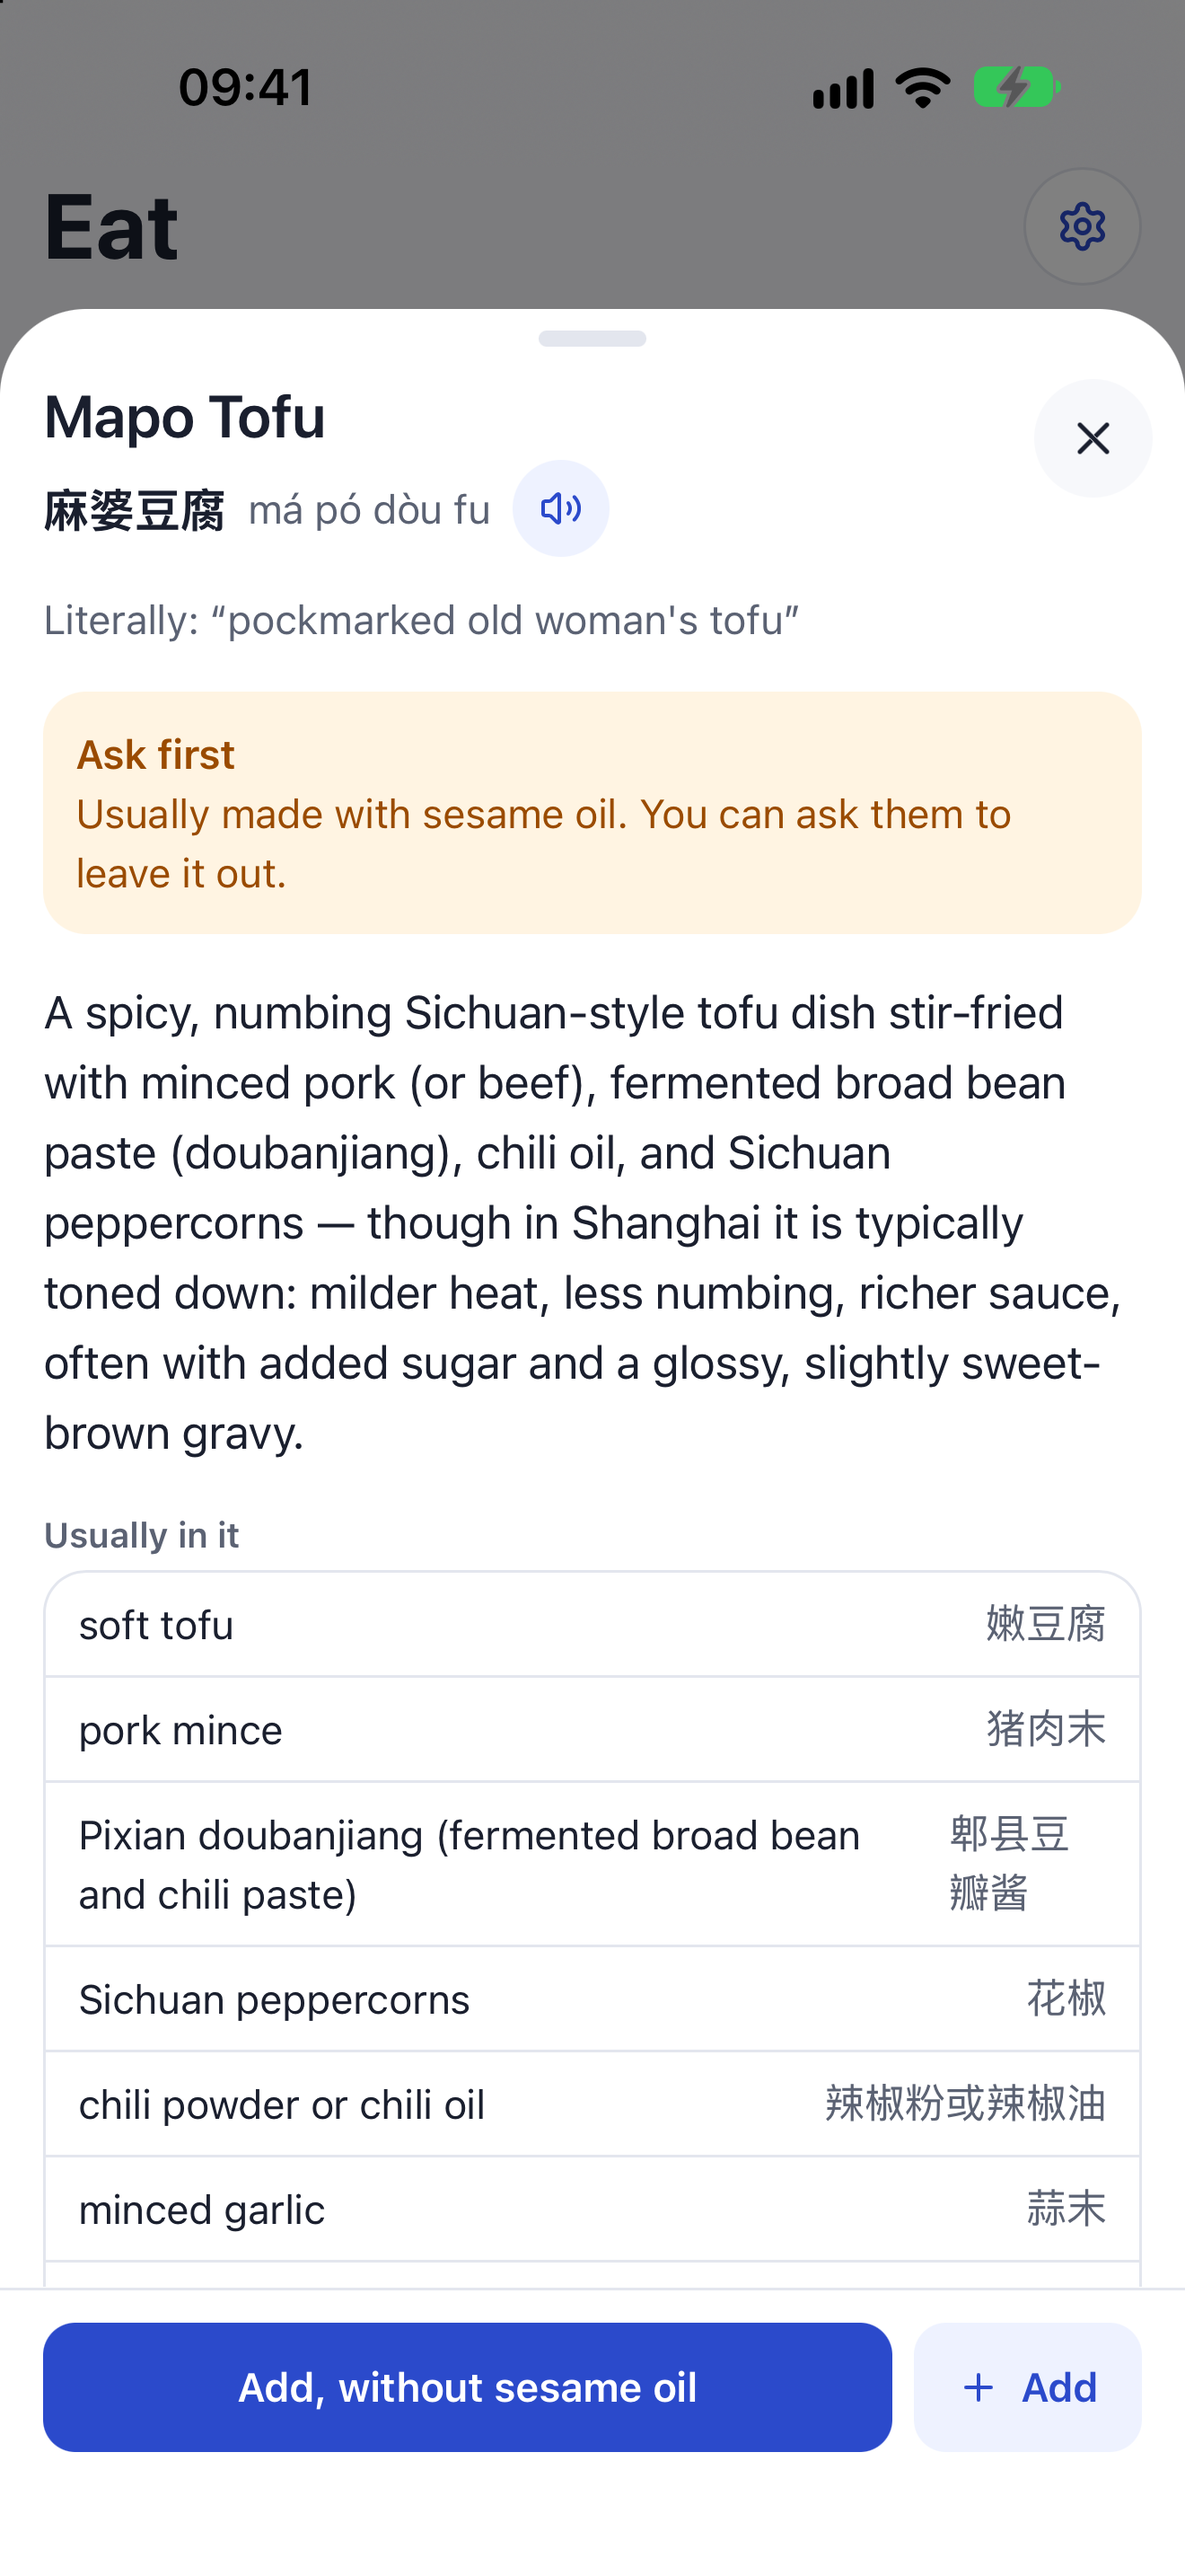
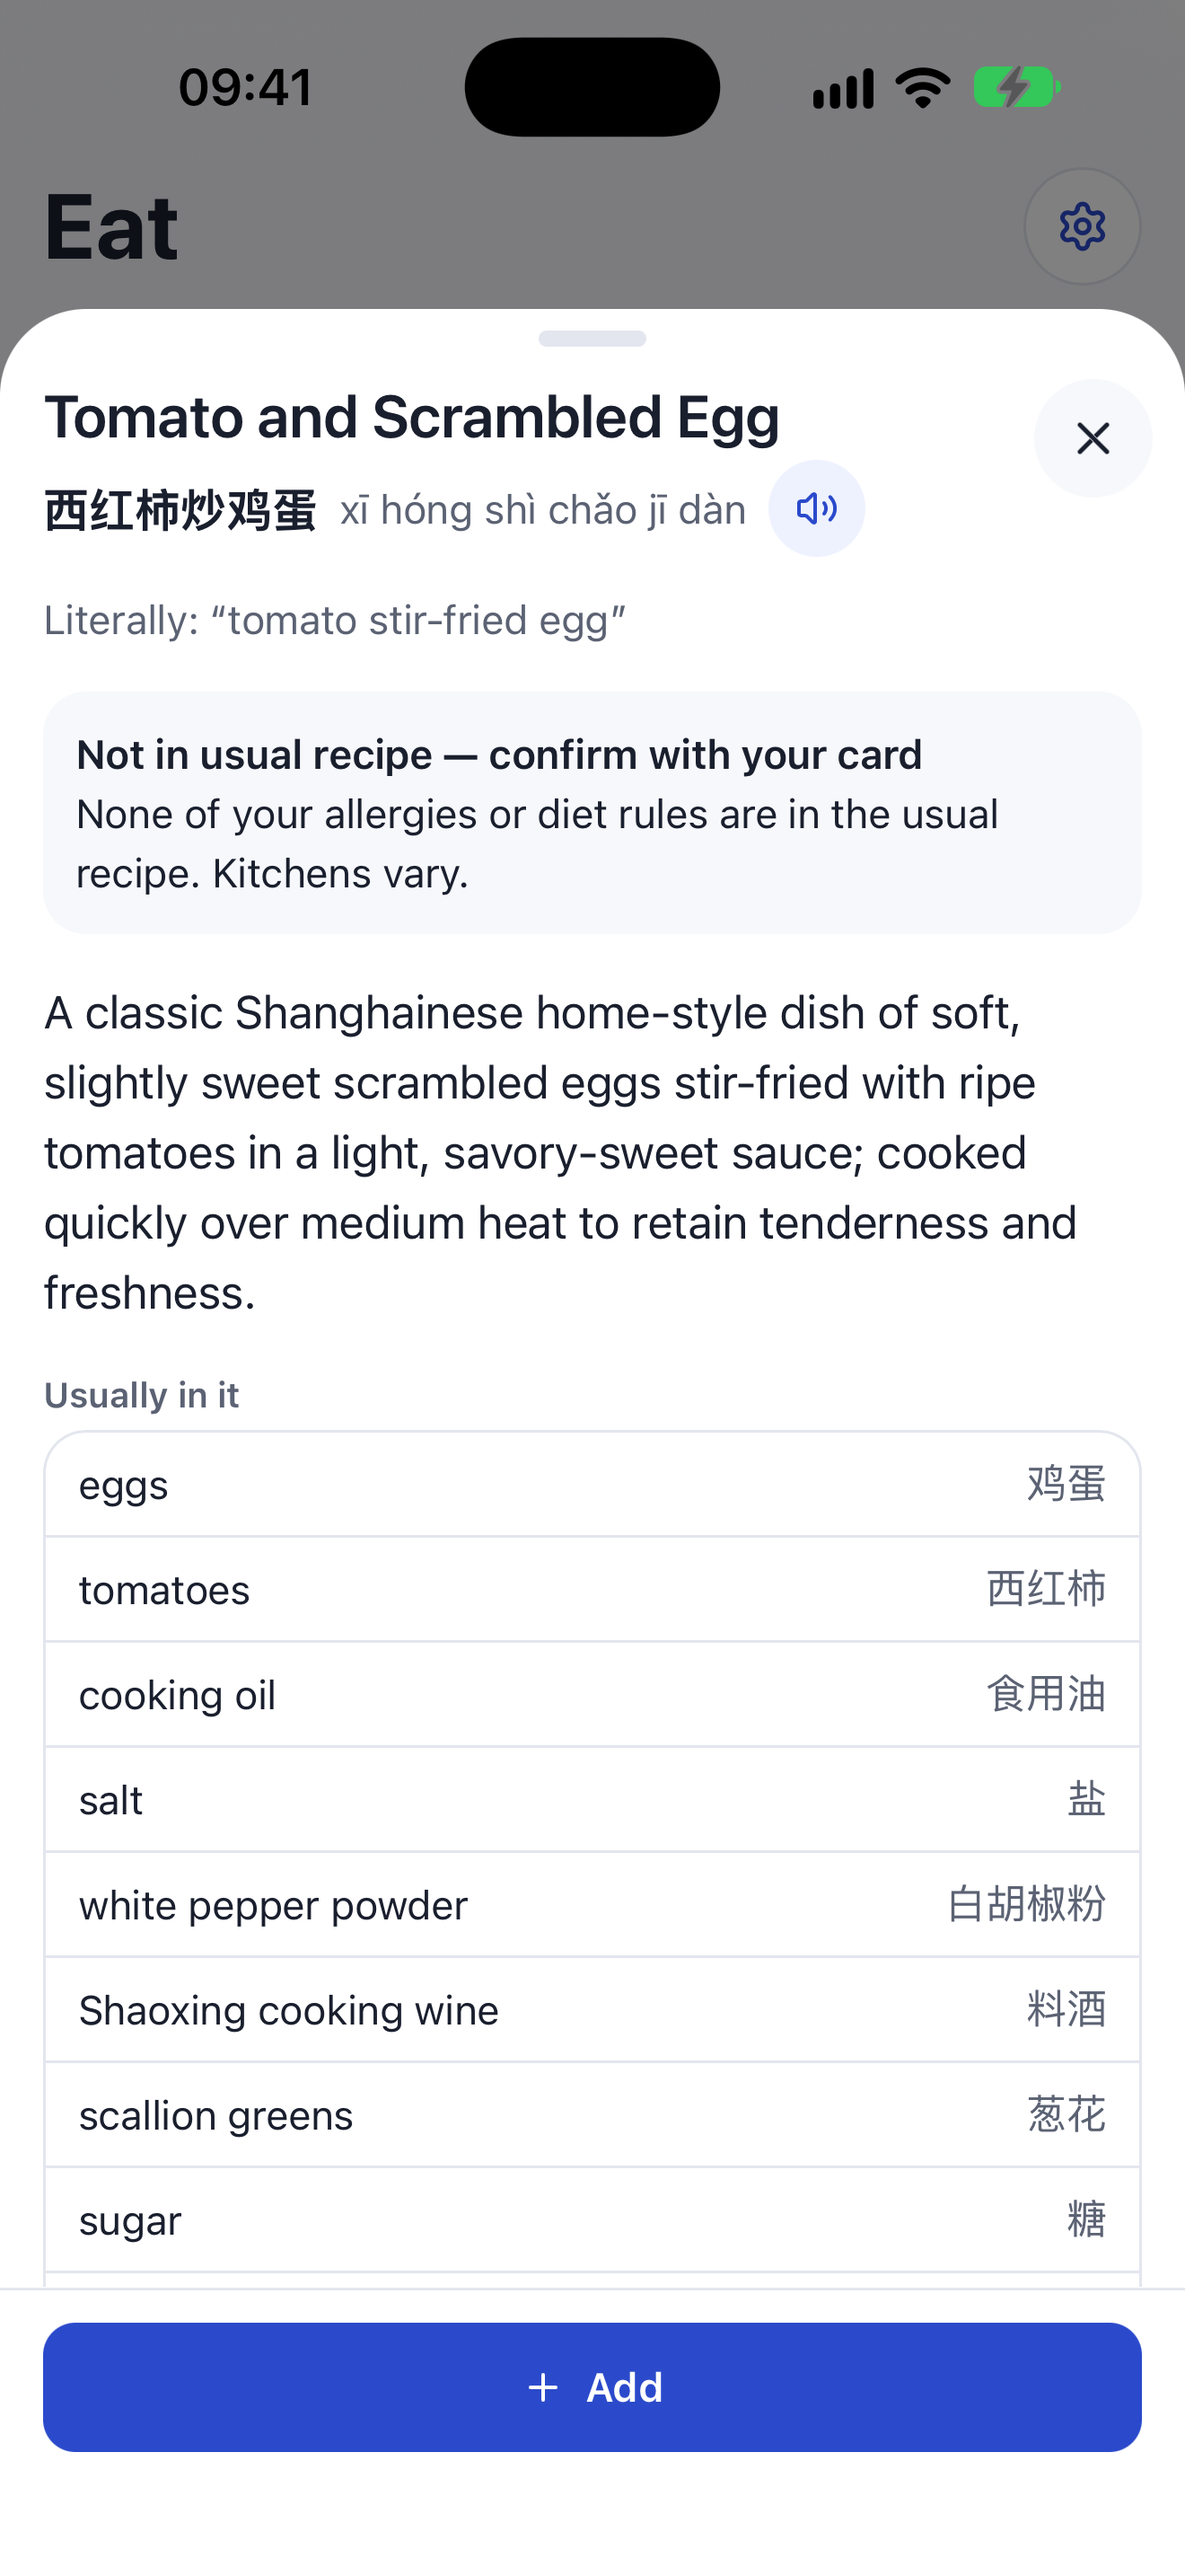
App Store screenshots 01-03 retaken with the new verdict wording

diff --git a/native/app-store.md b/native/app-store.md
@@ -105,10 +105,11 @@ Declaring location and photos is the conservative choice: Apple exempts data tha
 
 Required: 6.9" iPhone (1320 × 2868 portrait). Ready in [screenshots/](screenshots/), taken from the iPhone 18
 Pro Max simulator against https://haodego.com with live AI and map data (allergies set to peanuts and sesame,
-location People's Square, Shanghai). Upload in this order:
+both severe, which is the default; location People's Square, Shanghai). 01–03 retaken 2026-10-31 after the
+verdict wording changed. Upload in this order:
 
-1. `01-menu-results.png`: 8 dishes, each with one verdict (not in usual recipe / ask first / don't order)
-2. `02-dish-detail.png`: a dish's literal meaning, why to ask, usual ingredients, and "Add, without …" for a non-severe allergen
+1. `01-menu-results.png`: 8 dishes; with severe allergies each is "Not in usual recipe — confirm with your card" or a red "Don't order"
+2. `02-dish-detail.png`: Tomato and scrambled egg: literal meaning, verdict, what's usually in it, Add
 3. `03-order-card.png`: the large Chinese order card for the waiter, with one-tap replies
 4. `04-explore.png`: Shanghai top picks with an Amap photo
 5. `05-route.png`: bus routes with fares, station pinyin and Chinese, plus the taxi estimate
